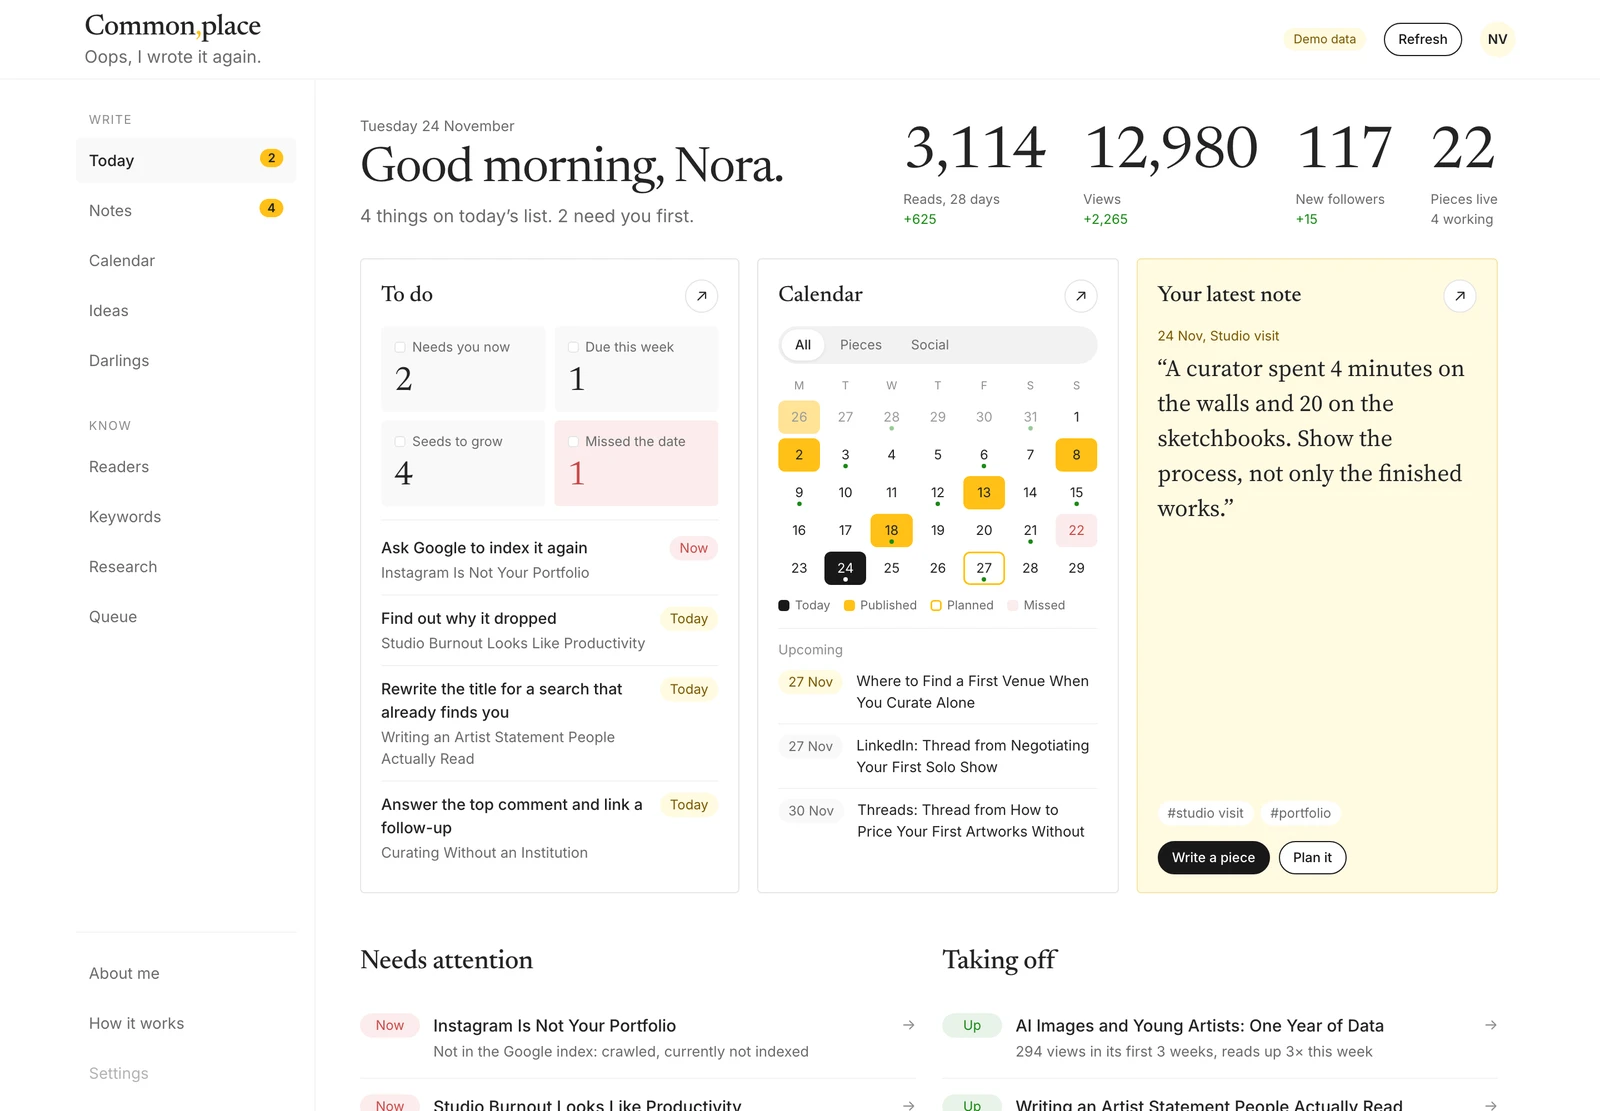
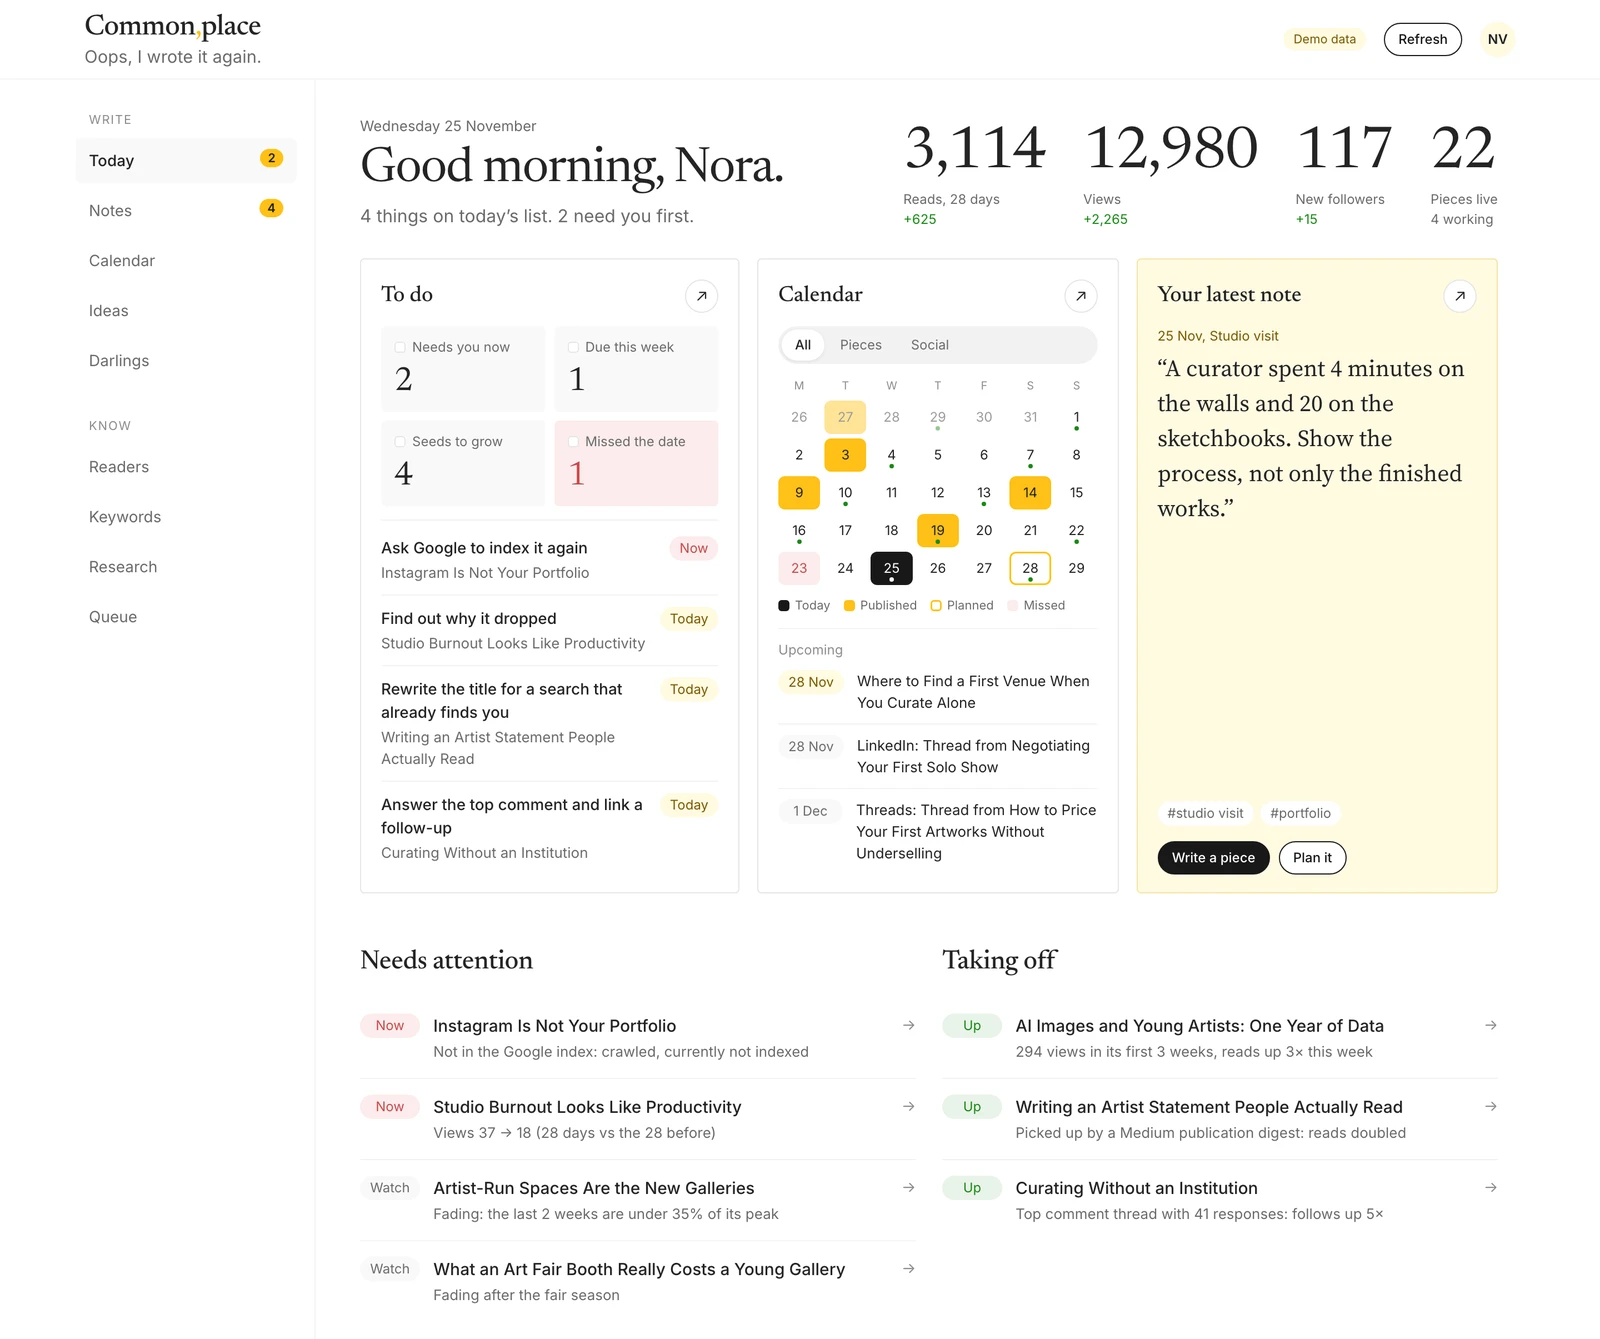
Opening shot: Today shown down to Needs attention, phone tilted 12 degrees over the window, a large white comma on the stage

diff --git a/day.html b/day.html
@@ -108,9 +108,11 @@ h2{font:400 clamp(34px,4vw,52px)/1.02 var(--voice);letter-spacing:-.01em;margin:
 .phone::after{content:"";position:absolute;left:50%;bottom:9px;width:84px;margin-left:-42px;border-top:2px solid var(--ink);border-radius:2px}
 .phone img{border-radius:6px;border:1px solid var(--line2)}
 .show{margin-top:8px}
-.show .stage{grid-column:auto;margin:0;padding:60px 56px 56px}
-.show .win{width:80%}
-.show .phone{position:absolute;right:56px;bottom:56px;width:230px;padding:28px 8px 18px}
+.show .stage{grid-column:auto;margin:0;padding:64px 56px 56px}
+.show .mark{position:absolute;right:40px;top:-520px;font:800 1000px/1 'Newsreader',Georgia,serif;color:#fff;opacity:1;pointer-events:none;user-select:none}
+.show .win,.show .phone{position:relative;z-index:1}
+.show .win{width:76%}
+.show .phone{position:absolute;right:7%;bottom:48px;width:240px;padding:28px 8px 18px;transform:rotate(12deg);box-shadow:0 24px 50px rgba(60,40,0,.18)}
 .show .phone::before{top:9px;width:60px;margin-left:-30px;height:13px}
 .show .phone::after{bottom:7px;width:64px;margin-left:-32px}
 
@@ -157,9 +159,10 @@ footer{border-top:1px solid var(--line);padding-block:32px 64px;font-size:14px;c
  .phones .phone::after{width:56px;margin-left:-28px;bottom:6px}
  .phones .phone:only-child{width:72%}
  .win .bar span{display:none}
- .show .stage{padding:44px 18px 22px}
+ .show .stage{padding:44px 18px 40px}
  .show .win{display:none}
- .show .phone{position:relative;right:auto;bottom:auto;margin:0 auto;width:72%}
+ .show .mark{font-size:620px;top:-340px;right:-50px}
+ .show .phone{position:relative;right:auto;bottom:auto;margin:0 auto;width:72%;transform:rotate(6deg)}
  .steps{grid-template-columns:repeat(2,minmax(0,1fr))}
 }
 </style>
@@ -186,7 +189,7 @@ footer{border-top:1px solid var(--line);padding-block:32px 64px;font-size:14px;c
 </section>
 
 <section class="in show" aria-label="The product">
-  <figure class="stage"><span class="tag">In the app, the Today screen</span><div class="win"><div class="bar"><i></i><i></i><i></i><span>commonplace / today</span></div><img src="shots/day/hero-today.webp" width="1600" height="1111" alt="Today on desktop: four numbers, to-do, calendar and the last note"></div><div class="phone"><img src="shots/day/0730-today.webp" width="780" height="1690" alt="Today on the phone"></div></figure>
+  <figure class="stage"><span class="mark" aria-hidden="true">,</span><span class="tag">In the app, the Today screen</span><div class="win"><div class="bar"><i></i><i></i><i></i><span>commonplace / today</span></div><img src="shots/day/hero-today.webp" width="1600" height="1339" alt="Today on desktop: four numbers, to-do, calendar and the last note"></div><div class="phone"><img src="shots/day/0730-today.webp" width="780" height="1690" alt="Today on the phone"></div></figure>
 </section>
 
 <section class="in persona" aria-labelledby="who">
